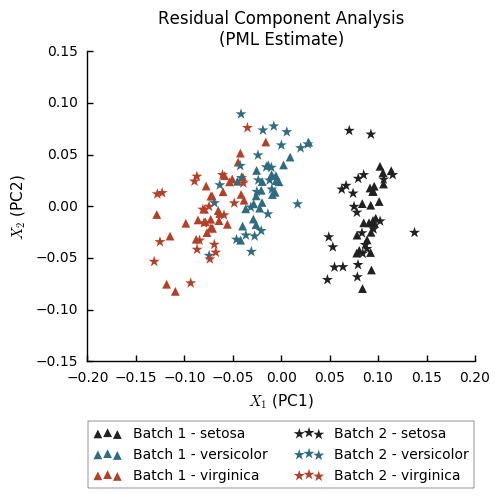
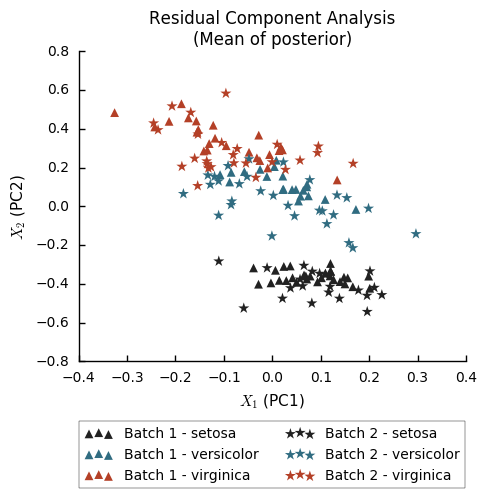
Changed from optimization to sampling

diff --git a/test_pca.py b/test_pca.py
@@ -26,13 +26,18 @@ data = {
     'G': G,
     'Y': Y
 }
-opt = pca.optimizing(data=data)
-o = opt
-min_noise = opt['s2_model']
+samples_1 = pca.sampling(data=data, chains=3, iter=500)
 
-df = pd.DataFrame(Y, columns=iris.feature_names)
-df['X1'] = o['X'][:, 0]
-df['X2'] = o['X'][:, 1]
+# %%
+samples_1.plot(['mu', 's2_model'])
+plt.tight_layout()
+
+# %%
+X_mean = samples_1.extract('X')['X'].mean(0)
+
+df = pd.DataFrame(Y_b, columns=iris.feature_names)
+df['X1'] = X_mean[:, 0]
+df['X2'] = X_mean[:, 1]
 df['species'] = iris.target_names[iris.target]
 
 colors = {'setosa':     (33./256, 33./256, 33./256),
@@ -46,8 +51,6 @@ for name, group in df.groupby('species'):
     edgecolor='none',
     color=colors[name])
 
-print(min_noise)
-
 plt.xlabel('$X_1$ (PC1)')
 plt.ylabel('$X_2$ (PC2)')
 
@@ -59,7 +62,7 @@ plt.legend(loc='upper center',
            bbox_to_anchor=(0.5, -0.17),
            ncol=3)
 
-plt.title('Principal Component Analysis\n(PML Estimate)')
+plt.title('Principal Component Analysis\n(Mean of posterior)')
 plt.savefig('iris_pca.png', bbox_inches='tight')
 
 # %%
@@ -77,14 +80,18 @@ data = {
     'G': G,
     'Y': Y_b
 }
+samples_2 = pca.sampling(data=data, chains=3, iter=500)
 
-opt = pca.optimizing(data=data)
-o = opt
-min_noise = opt['s2_model']
+# %%
+samples_2.plot(['mu', 's2_model'])
+plt.tight_layout()
+
+# %%
+X_mean = samples_2.extract('X')['X'].mean(0)
 
 df = pd.DataFrame(Y_b, columns=iris.feature_names)
-df['X1'] = o['X'][:, 0]
-df['X2'] = o['X'][:, 1]
+df['X1'] = X_mean[:, 0]
+df['X2'] = X_mean[:, 1]
 df['species'] = iris.target_names[iris.target]
 df['batch'] = batch
 
@@ -111,7 +118,7 @@ plt.legend(loc='upper center',
            bbox_to_anchor=(0.5, -0.17),
            ncol=2)
 
-plt.title('Principal Component Analysis\n(PML Estimate)')
+plt.title('Principal Component Analysis\n(Mean of posterior)')
 plt.savefig('iris_batch_pca.png', bbox_inches='tight')
 
 # %%
@@ -126,14 +133,18 @@ data = {
     'P': 1,
     'Z': batch
 }
+samples_3 = rca.sampling(data=data, chains=3, iter=500)
 
-opt = rca.optimizing(data=data)
-o = opt
-min_noise = opt['s2_model']
+# %%
+samples_3.plot(['mu', 's2_model'])
+plt.tight_layout()
+
+# %%
+X_mean = samples_3.extract('X')['X'].mean(0)
 
 df = pd.DataFrame(Y_b, columns=iris.feature_names)
-df['X1'] = o['X'][:, 0]
-df['X2'] = o['X'][:, 1]
+df['X1'] = X_mean[:, 0]
+df['X2'] = X_mean[:, 1]
 df['species'] = iris.target_names[iris.target]
 df['batch'] = batch
 
@@ -156,9 +167,8 @@ plt.legend(loc='upper center',
            bbox_to_anchor=(0.5, -0.17),
            ncol=2)
 
-plt.title('Residual Component Analysis\n(PML Estimate)')
+plt.title('Residual Component Analysis\n(Mean of posterior)')
 
-print(o['s2_model'])
 plt.savefig('iris_batch_rca.png', bbox_inches='tight')
 
 
